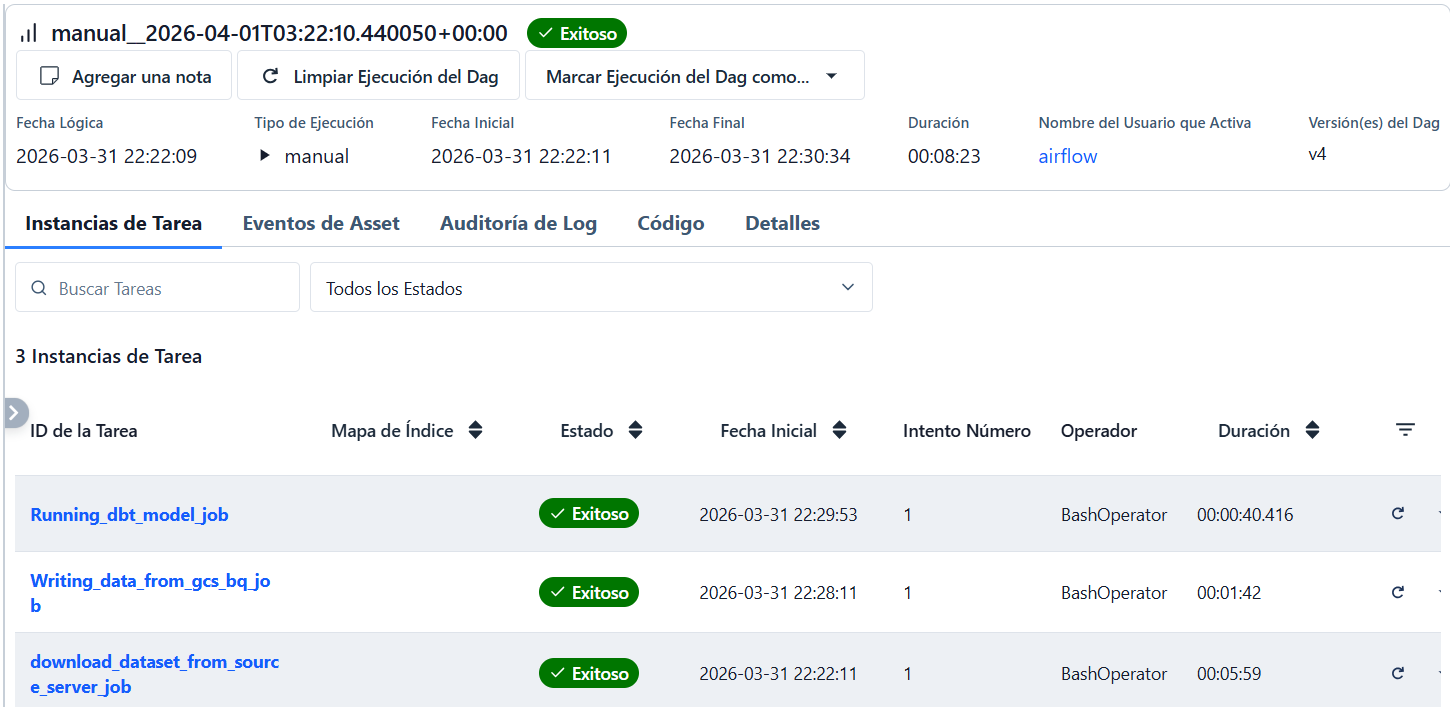
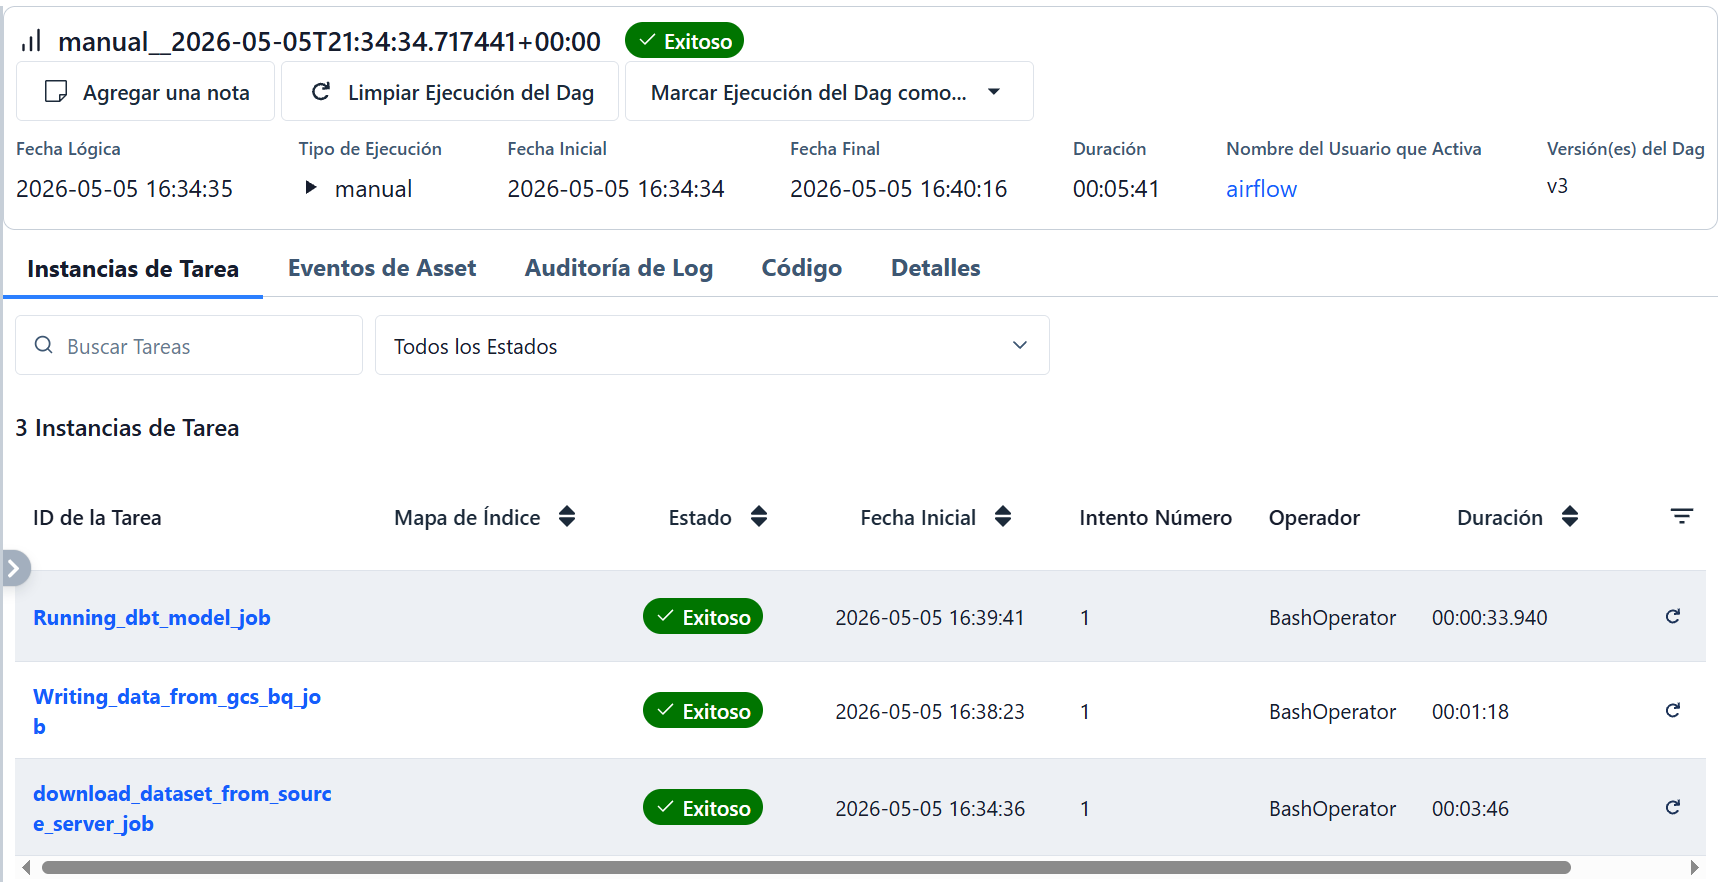
Commit changes

diff --git a/src/jobs/fetching_data.py b/src/jobs/fetching_data.py
@@ -16,8 +16,6 @@ path_local_home = os.environ.get('AIRFLOW_HOME', '/opt/airflow')
 gcs_credentials = os.environ.get('GCS_CREDENTIALS')
 gcs_bucket = os.environ.get('BUCKET_NAME')
 
-
-
 # Spark configuration
 def spark_config(path_local, cloud_credentials):
     conf = SparkConf() \
@@ -71,7 +69,7 @@ def fetching_data():
         print(f'Error fetching data: {e}')
 
 # Initial Schema definition:
-def schema_definition():
+def reading_data():
     schema_housing = types.StructType([
         types.StructField('PERIOD_BEGIN', types.TimestampType(), True),
         types.StructField('PERIOD_END', types.TimestampType(), True),
@@ -126,39 +124,71 @@ def schema_definition():
 
     print(f'Records extracted from source: {records_extracted}')
 
-    return df_housing
+    return df_housing, schema_housing
+
+def incremental_load(df_housing, gcs_bucket, schema_housing):
+    try: 
+        print('Performing incremental load...')
+        df_housing_gcs = \
+            spark.read \
+            .option('header', 'true') \
+            .schema(schema_housing) \
+            .parquet(f'gs://{gcs_bucket}/weekly_housing_market_data_most_recent.parquet')
+        
+        print('Merging data to find new records...')
+        df_housing_incremental = \
+            df_housing.join(
+                df_housing_gcs,
+                on= ['PERIOD_BEGIN', 
+                     'PERIOD_END', 
+                     'REGION_ID', 
+                     'DURATION'],
+                how= 'left_anti' # left_anti join to get only new records that are not in the GCS dataset
+            ) 
+    
+        print(f'Number of new records will be added: {df_housing_incremental.count()}')
+
+        return df_housing_incremental
+    
+    except Exception as e:
+        print(f'There is not data already stored in {gcs_bucket} bucket. All records from source will be loaded: {e}')
+    
+        return df_housing
 
 # print(df_housing.rdd.getNumPartitions)
 
 # Uploading data to GCS in parquet format:
-def upload_to_gcs(df, bucket_name):
-    print('Uploading data to Google Cloud Storage...')
+def upload_to_gcs(df_housing_incremental, bucket_name):
 
-    df \
-        .repartition(10) \
-        .write \
-        .mode('overwrite') \
-        .parquet(f'gs://{bucket_name}/weekly_housing_market_data_most_recent.parquet')
+    if df_housing_incremental.count() == 0:
+        print('No new records were found to upload to GCS')
 
-    print('Data was succesfully stored')
+        return None
+    
+    else:
+        print('Uploading data to Google Cloud Storage...')
+        df_housing_incremental \
+            .repartition(10) \
+            .write \
+            .mode('append') \
+            .parquet(f'gs://{bucket_name}/weekly_housing_market_data_most_recent.parquet')
+
+        print('Data was succesfully stored')
 
     spark.stop()
 
 def main():
+    # Spark configuration and context setup
     conf = spark_config(path_local_home, gcs_credentials)
     sc = spark_context(conf, path_local_home, gcs_credentials)
     global spark
     spark = spark_session(sc)
 
     fetching_data()
-    df_housing = schema_definition()
-    upload_to_gcs(df_housing, gcs_bucket)
-
+    df_housing, schema_housing = reading_data()
+    df_housing_incremental = incremental_load(df_housing, gcs_bucket, schema_housing)
+    upload_to_gcs(df_housing_incremental, gcs_bucket)
+    
 if __name__ == "__main__": 
     main()
-
-
-
-
-
 

diff --git a/dags/us_housing_data_pipeline.py b/dags/us_housing_data_pipeline.py
@@ -27,7 +27,7 @@ with DAG(
 
     fetching_data_job = BashOperator(
         task_id="download_dataset_from_source_server_job",
-        bash_command=f"python -u {path_local_home}/src/jobs/fetching_data.py" # Run the py script in unbuffered mode to see the logs in real time.
+        bash_command=f"python -u {path_local_home}/src/jobs/fetching_data.py", # Run the py script in unbuffered mode to see the logs in real time.
     )
 
     gcs_to_bq_job = BashOperator(

diff --git a/src/jobs/gcs_to_bq.py b/src/jobs/gcs_to_bq.py
@@ -86,6 +86,7 @@ def writing_to_bq(gcp_project_id, bq_dataset, df_housing_gcs):
     spark.stop()
 
 def main():
+    # Spark configuration and context setup
     conf = spark_config(path_local_home, gcs_credentials)
     sc = spark_context(conf, path_local_home, gcs_credentials)
     global spark

diff --git a/README.md b/README.md
@@ -208,7 +208,7 @@ each layer/stage is well defined:
 
 ![dbt_model_lineage](/pictures/dbt_model_lineage.png)
 
-This layered approach ensures **data quality is enforced early**, **ogic 
+This layered approach ensures **data quality is enforced early**, logic 
 is centralized** in one place, and the **dashboard always queries pre-aggregated, 
 optimized models** rather than hitting the raw data directly.
 
@@ -309,11 +309,10 @@ While the pipeline is running, you can monitor the logs of all 3 tasks to identi
 
 http://localhost:4040
 
-Depending on your local resources, you can modify the driver and executor memory within the Spark Config Session (inside each Spark Job) to adjust to your machine's resources. It is recommended to run the pipeline on a machine with 4 cores and 16GB of RAM, or use a virtual machine with enough resources (already tested on a VM, executing in 8 to 10 minutes). Otherwise, it may take longer to finish the entire execution (20+ minutes) or crash during the process.
+Depending on your local resources, you can modify the driver memory within the Spark Config Session (inside each Spark Job) to adjust to your machine's resources. It is recommended to run the pipeline on a machine with 4 cores and 16GB of RAM, or use a virtual machine with enough resources (already tested on a VM with 8 cores and 16Gb Ram, executing in 5 to 6 minutes). Otherwise, it may take longer to finish the entire execution (20+ minutes) or crash during the process.
 
-    # Allocate memory depending on your available resources. Below are the default configured values: 
-    .set("spark.driver.memory", "4g") 
-    .set("spark.executor.memory", "4g")
+    # Allocate memory depending on your available resources. Below is the default driver configured value: 
+    .set("spark.driver.memory", "12g") 
 
 ![dag_execution_time](pictures/dag_execution_time.png)
 
@@ -324,6 +323,5 @@ Once the pipeline finishes successfully, the entire infrastructure will be fully
 
 To significantly improve the pipeline's performance, the following enhancements will be added:
 - Create a Dataproc cluster on GCP where all Spark jobs can be submitted for processing in an isolated environment, leveraging the cluster's dedicated resources.
-- Design an incremental strategy to process only newly added records, avoiding reprocessing the entire historical dataset on each execution.
 
 ---